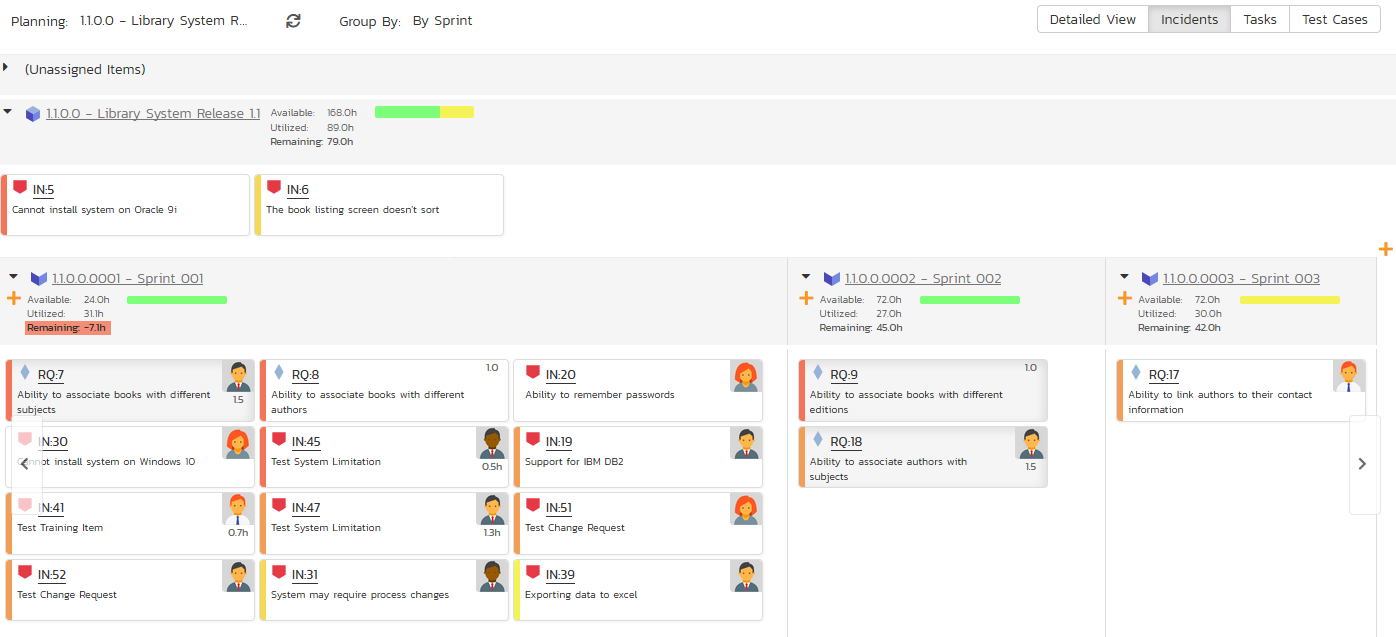
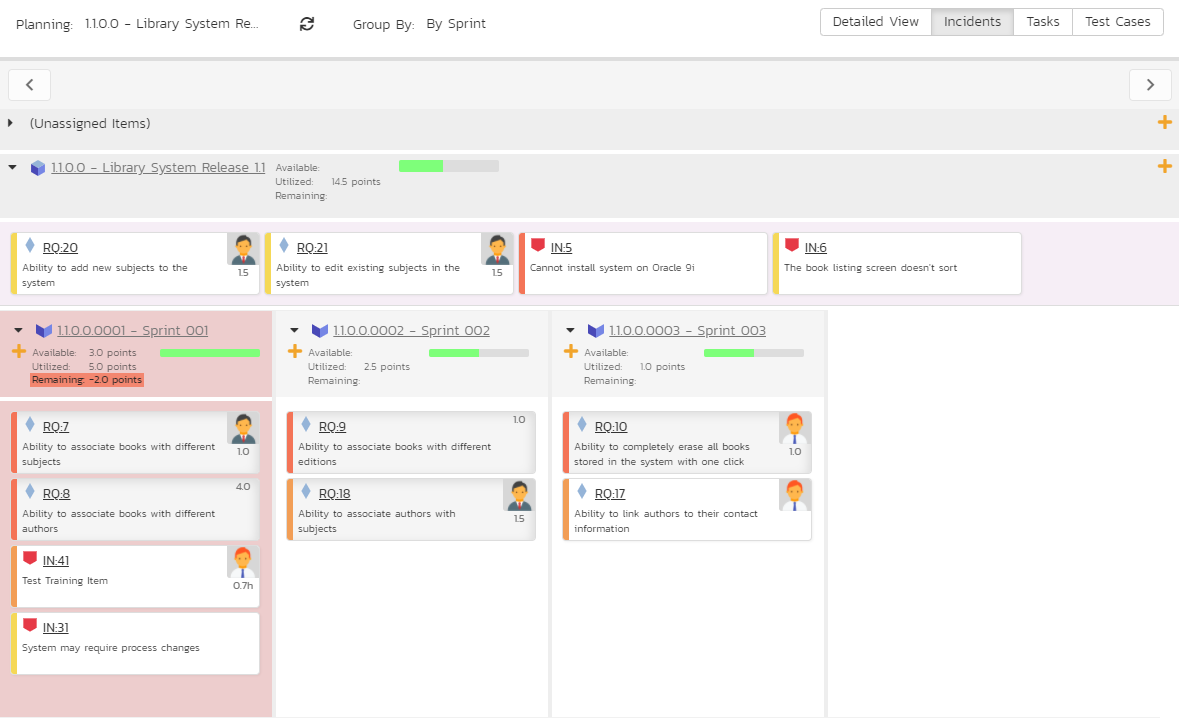
typos and corrections

diff --git a/docs/Spira-User-Manual/Planning-Board.md b/docs/Spira-User-Manual/Planning-Board.md
@@ -210,9 +210,9 @@ This view is designed to let you see the release backlog organized by iteration 
 
 ![](img/Planning_Board_424.png)
 
-You can drag and drop the requirements between the different sprints. If you schedule a requirement for a specific sprint, all the child tasks that have not yet been started, will follow the parent requirement in being associated with the sprint. Once the backlog item has been added to the sprint, the utilized effort for the sprint will increase, and the available effort will decrease by the same amount.
+You can drag and drop the requirements between the different sprints. If you schedule a requirement for a specific sprint, all the child tasks that have not yet been started, will follow the parent requirement in being associated with the sprint. Once the backlog item has been added to the sprint, the utilized effort for the sprint will increase, and the remaining effort will decrease by the same amount.
 
-Note: The system will allow you to assign more backlog items to an sprint than it is possible to complete, however this will result in a negative value for 'available effort'. If this happens, the "Available Effort" value will be displayed in red, and you need to rebalance the items, extend the sprint length or add product personnel resources to the sprint.
+Note: The system will allow you to assign more backlog items to an sprint than it is possible to complete, however this will result in a negative value for 'remaining effort'. If this happens, the "Remaining" value will be displayed in red - as will the sprint header area and the cards column. This alerts you that you need to rebalance the items, extend the sprint length, or add product personnel resources to the sprint.
 
 Clicking on the Sprint hyperlinks in the headers will switch the planning board into the [Sprint Backlog](#sprint-backlog-planning) view described below.
 

diff --git a/docs/Spira-Administration-Guide/System-Users.md b/docs/Spira-Administration-Guide/System-Users.md
@@ -83,7 +83,7 @@ If you click on the TaraVault membership tab, you can choose whether or not the 
 
 ## Importing LDAP Users
 
-If your organization already has an LDAP compatible user management system in place (e.g. Windows Active Directory, Novell eDirectory, OpenLDAP, IBM Tivoli, etc.), then instead of having to manually enter users one by one into SpiraPlan®, you can simply import them from your LDAP Server. Before doing this however, you need to first setup the LDAP configuration (see the section on LDAP Configuration below.
+If your organization already has an LDAP compatible user management system in place (e.g. Windows Active Directory, Novell eDirectory, OpenLDAP, IBM Tivoli, etc.), then instead of having to manually enter users one by one into SpiraPlan®, you can simply import them from your LDAP Server. Before doing this however, you need to first setup the (LDAP Configuration)[../System/#ldap-configuration].
 
 Once you have setup your LDAP server configuration in SpiraPlan®, clicking on the "Import Users From and LDAP Server" will bring up the following screen:
 

diff --git a/docs/Spira-Administration-Guide/System-Home.md b/docs/Spira-Administration-Guide/System-Home.md
@@ -24,7 +24,7 @@ If you click the "Delete" button, a popup will show a warning. If you decide to 
 - any sample user who has been used to create, comment or has been assigned any artifacts in non-sample data products
 
 !!! tip 
-    If you do not users to see the sample data but also do not want to delete it all you, there is a way. You can make all sample portfolios (SpiraPlan only), programs, products, and users inactive. These inactive items will still be visible on the relevant administration pages, but not in the main application. 
+    If you do not want users to see the sample data but do not want to permanently delete that data, there is a way. Make all sample portfolios (SpiraPlan only), programs, products, and users inactive. These inactive items will still be visible on the relevant administration pages, but noone will see them in the main application. 
 
 ## Event Log
 This widget shows the latest events from the system event log. By default, 5 events are shown, but this number can be changed. To view the complete event log, click View All.
